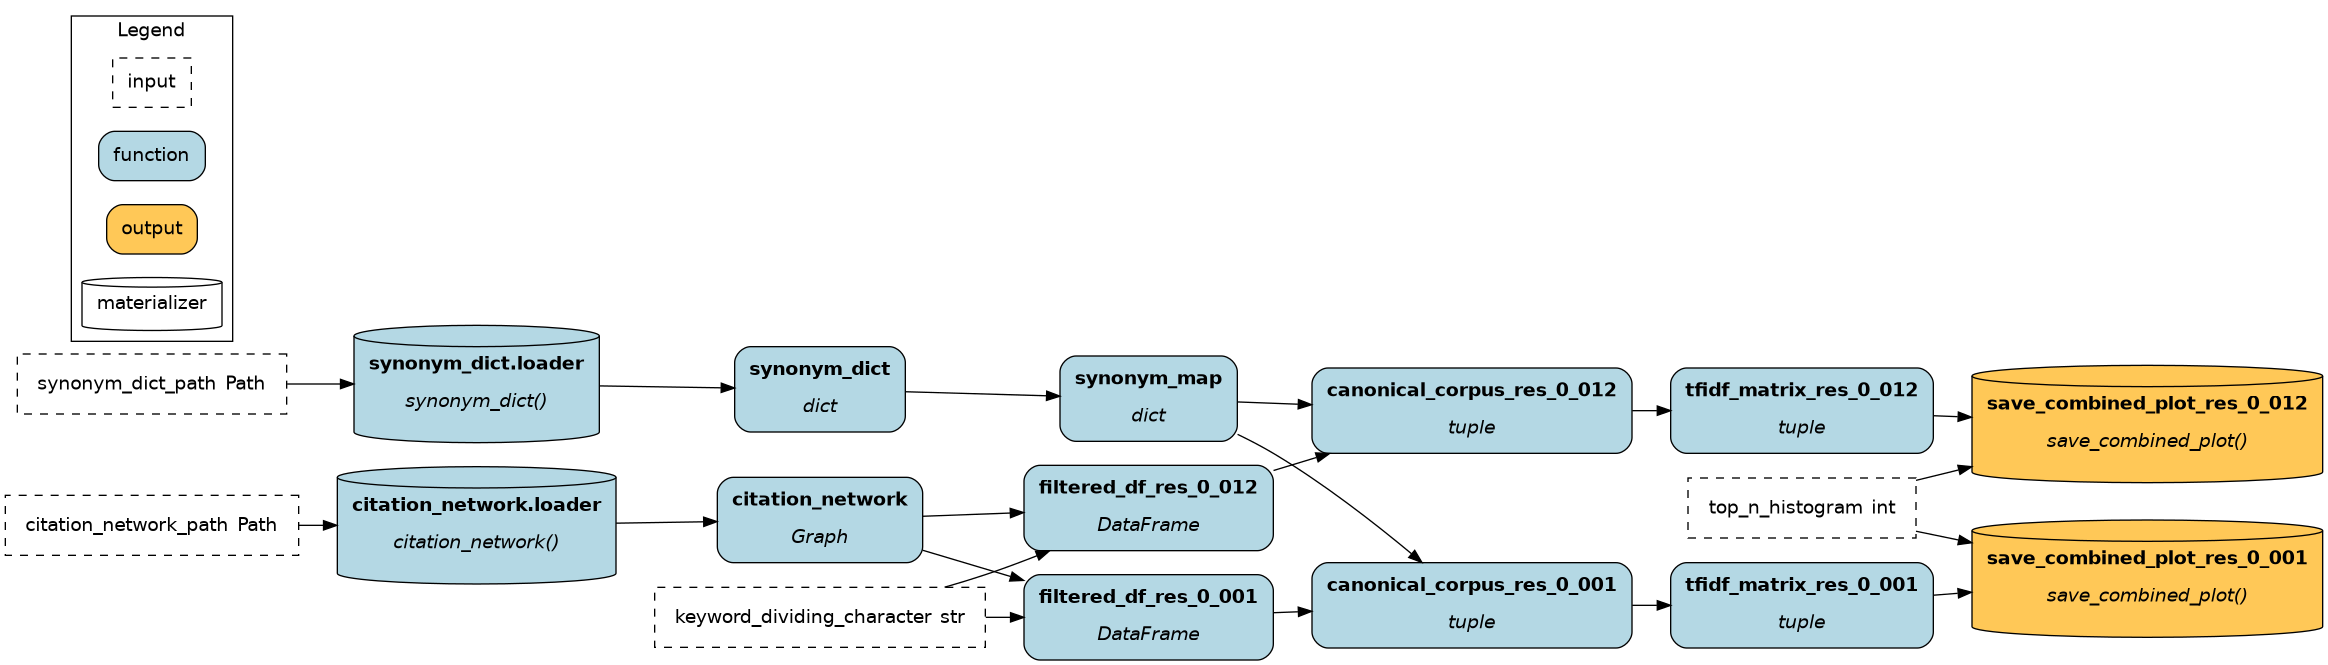
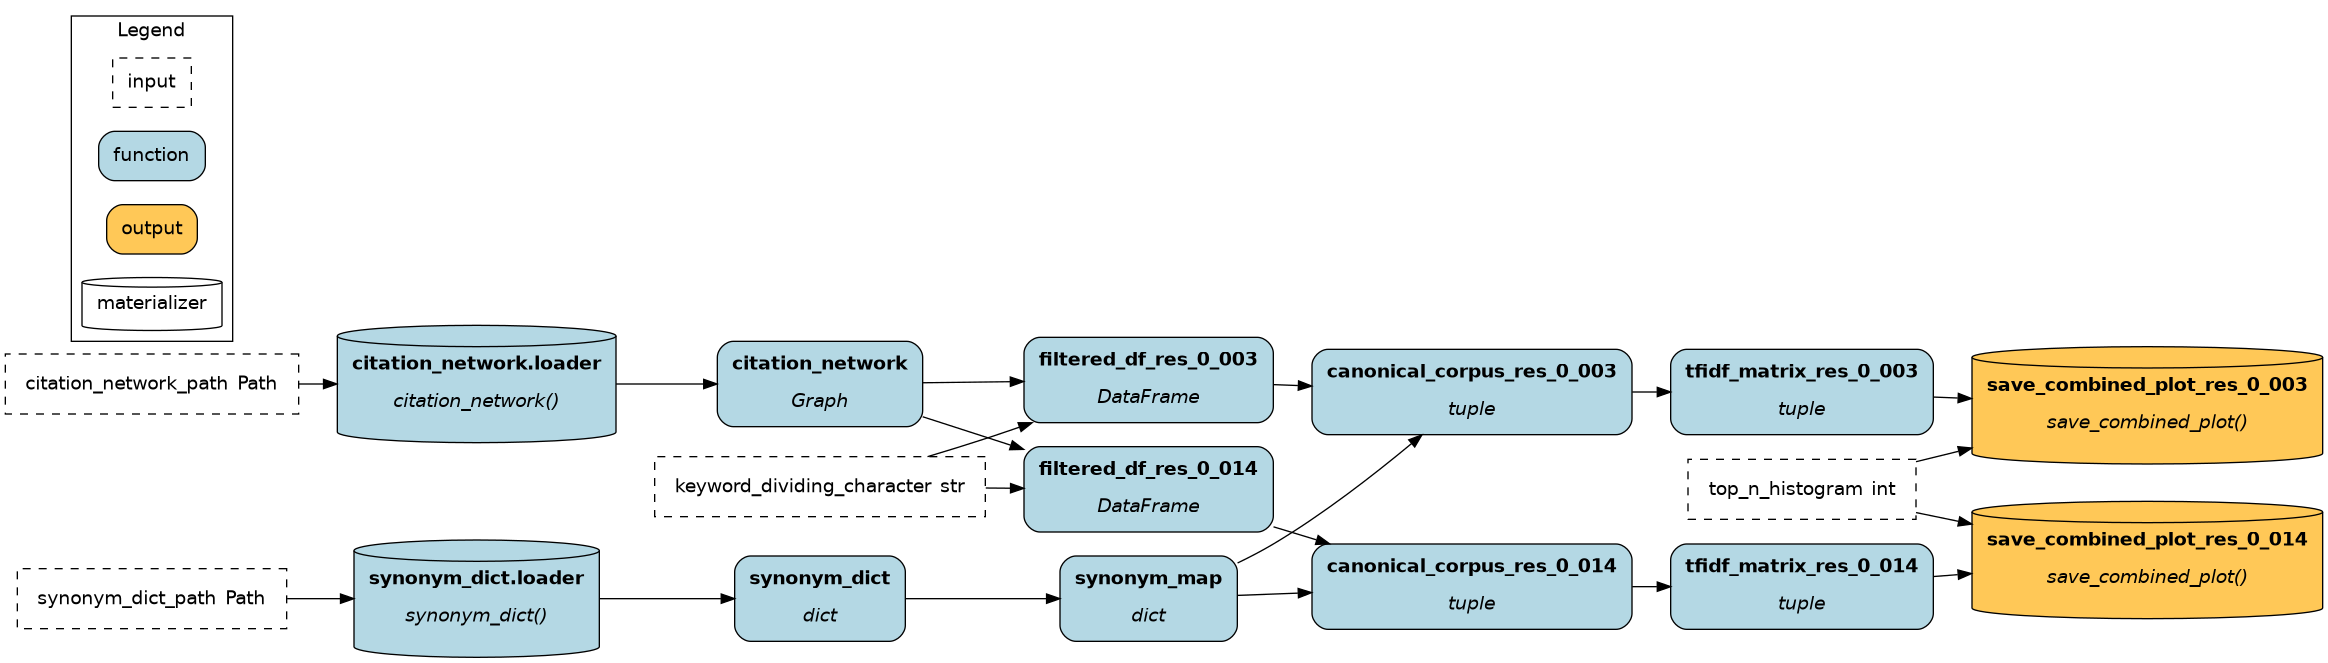
feat(pipelines): fiund keywords until 2000

Changed region(s): [[0.0, 0.3017, 1.0, 0.9955], [0.0619, 0.181, 0.0928, 0.2112]]

diff --git a/motor_learning_network/find_keywords_per_cluster.py b/motor_learning_network/find_keywords_per_cluster.py
@@ -49,10 +49,10 @@ if EXECUTE:
     logger.info("Executing the DAG!")
 
 # ── Resolution sweep ──────────────────────────────────────────────────────────
-YEAR = 1980
+YEAR = 2000
 TD_IDF_SAVING_PATH = KEYWORDS_LEVEL_DATA_PATH / f"until_{YEAR}"
 TD_IDF_SAVING_PATH.mkdir(parents=True,exist_ok=True)
-RESOLUTIONS: list[float] = [0.001, 0.012]
+RESOLUTIONS: list[float] = [0.003, 0.014]
 # RESOLUTIONS: list[float] = [round(0.001 + i * 0.001, 3) for i in range(1, 9)]
 # e.g. [0.002, 0.003, ..., 0.009]
 
